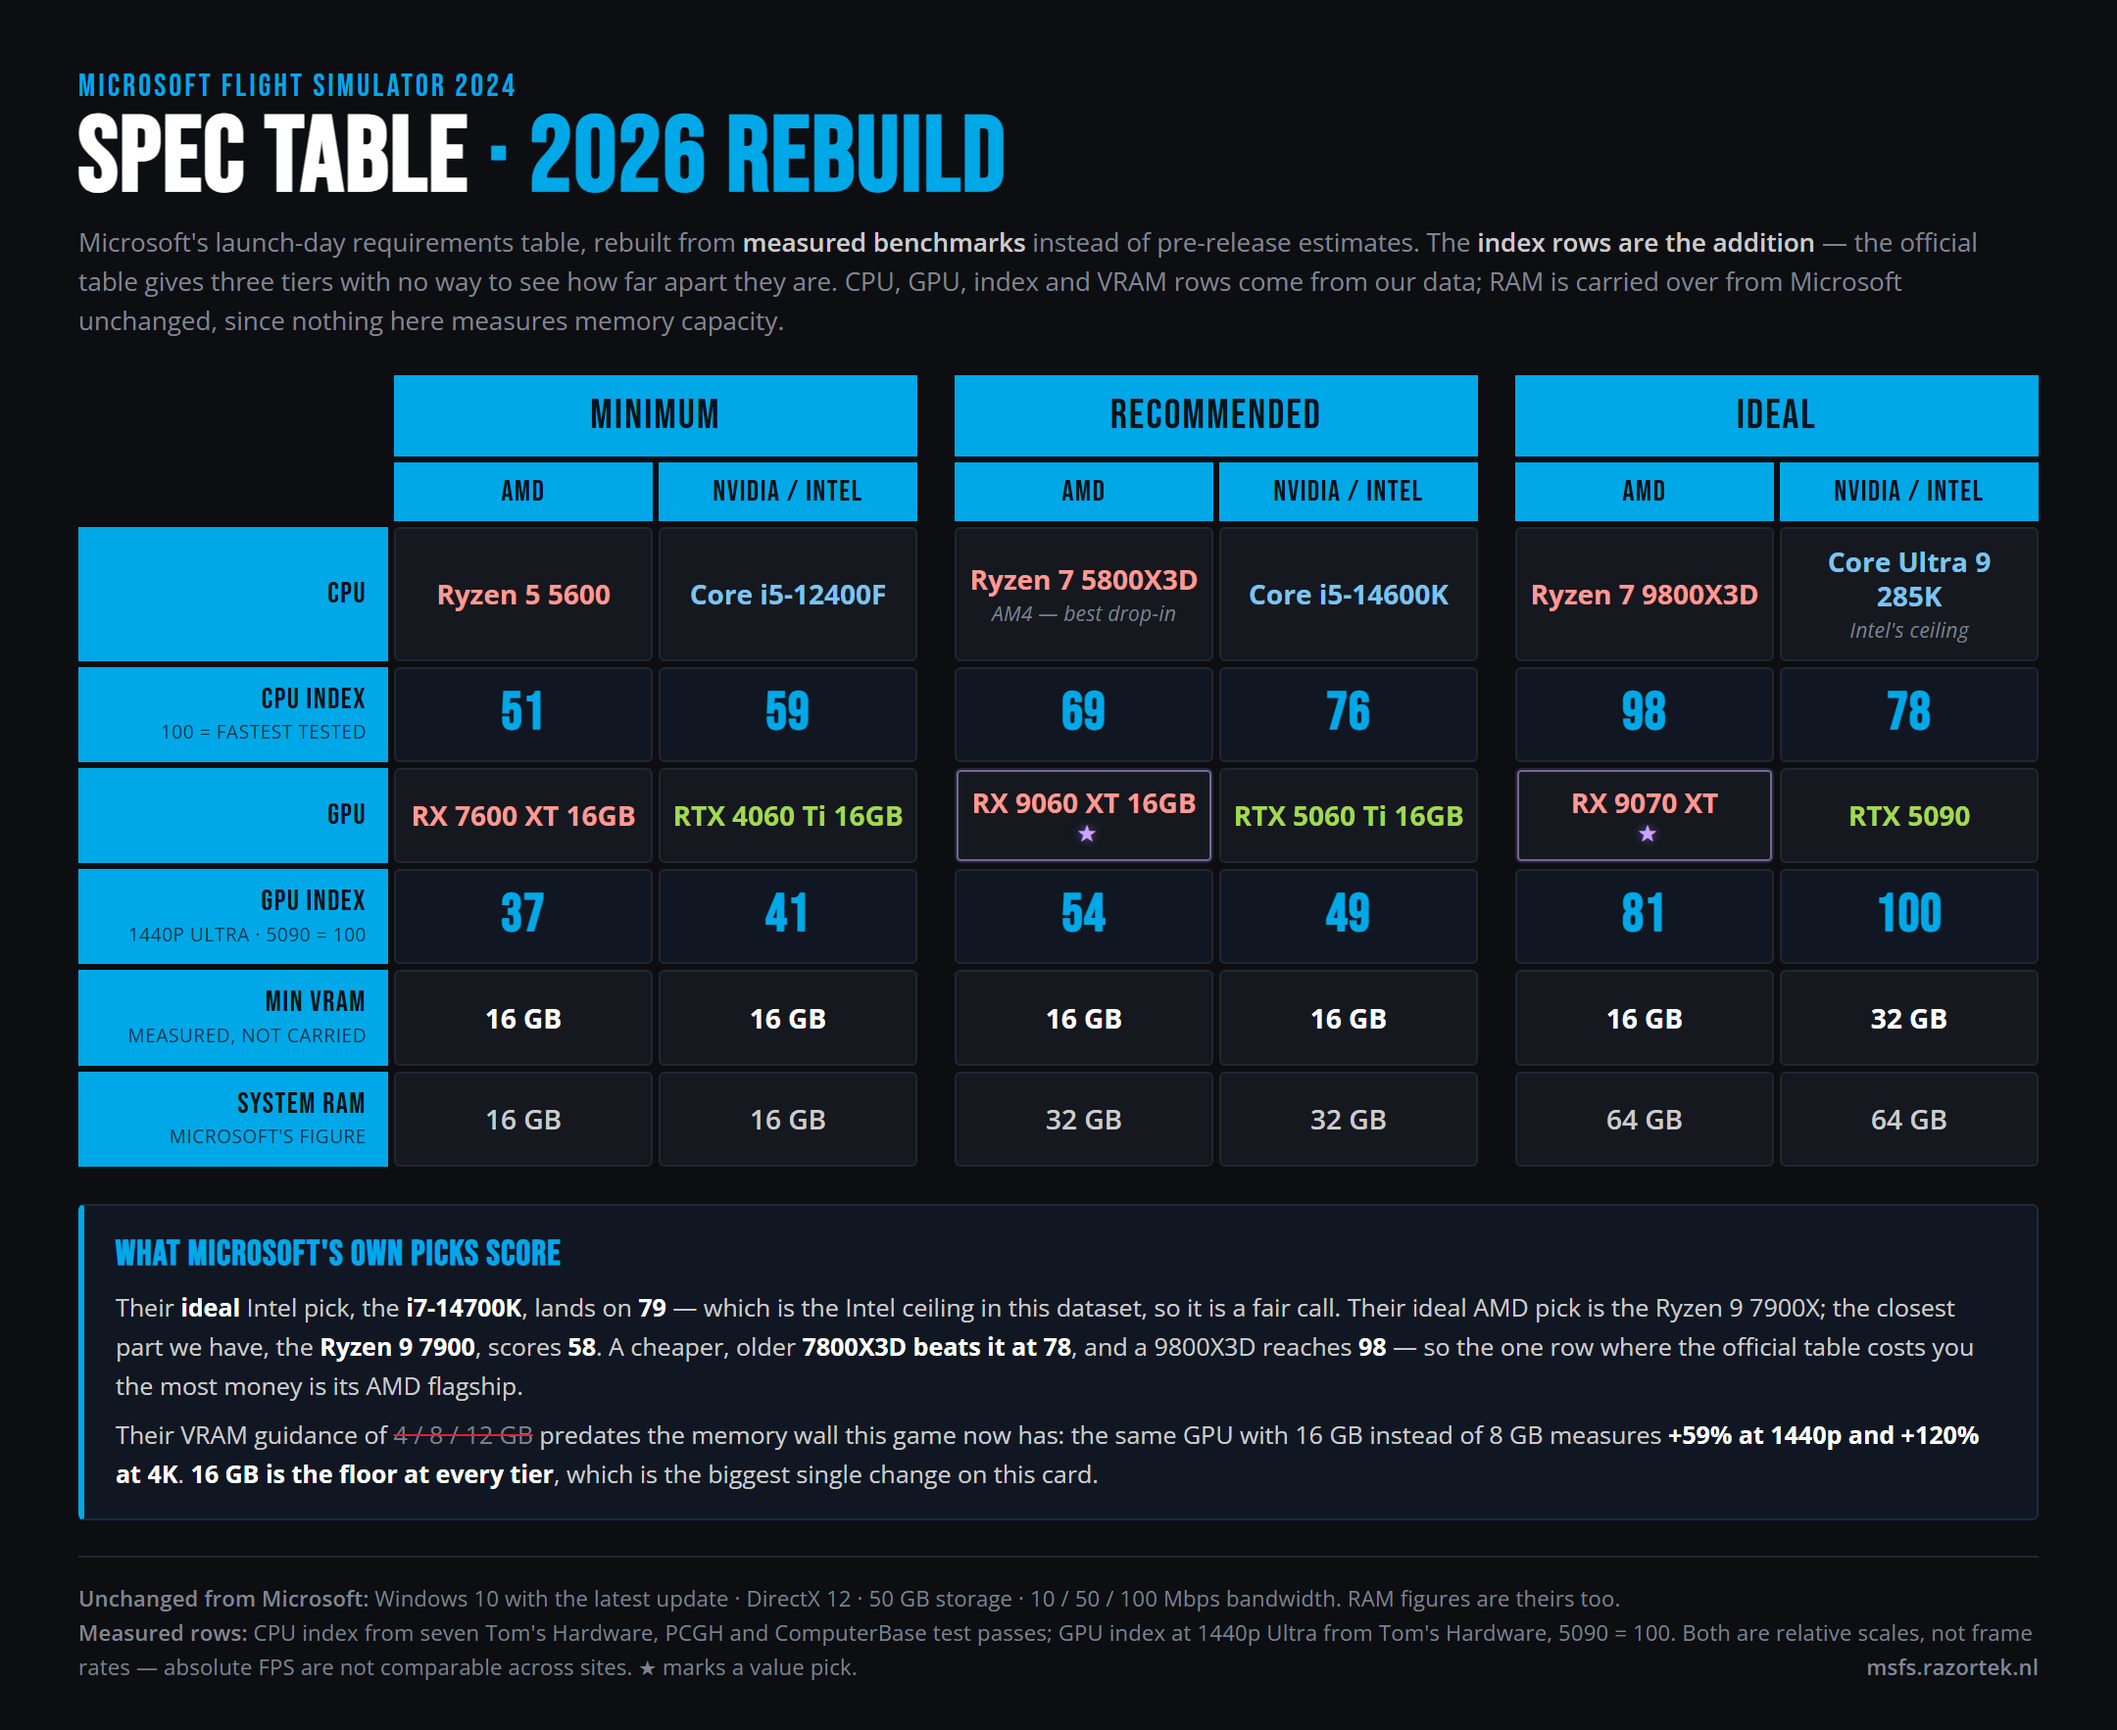
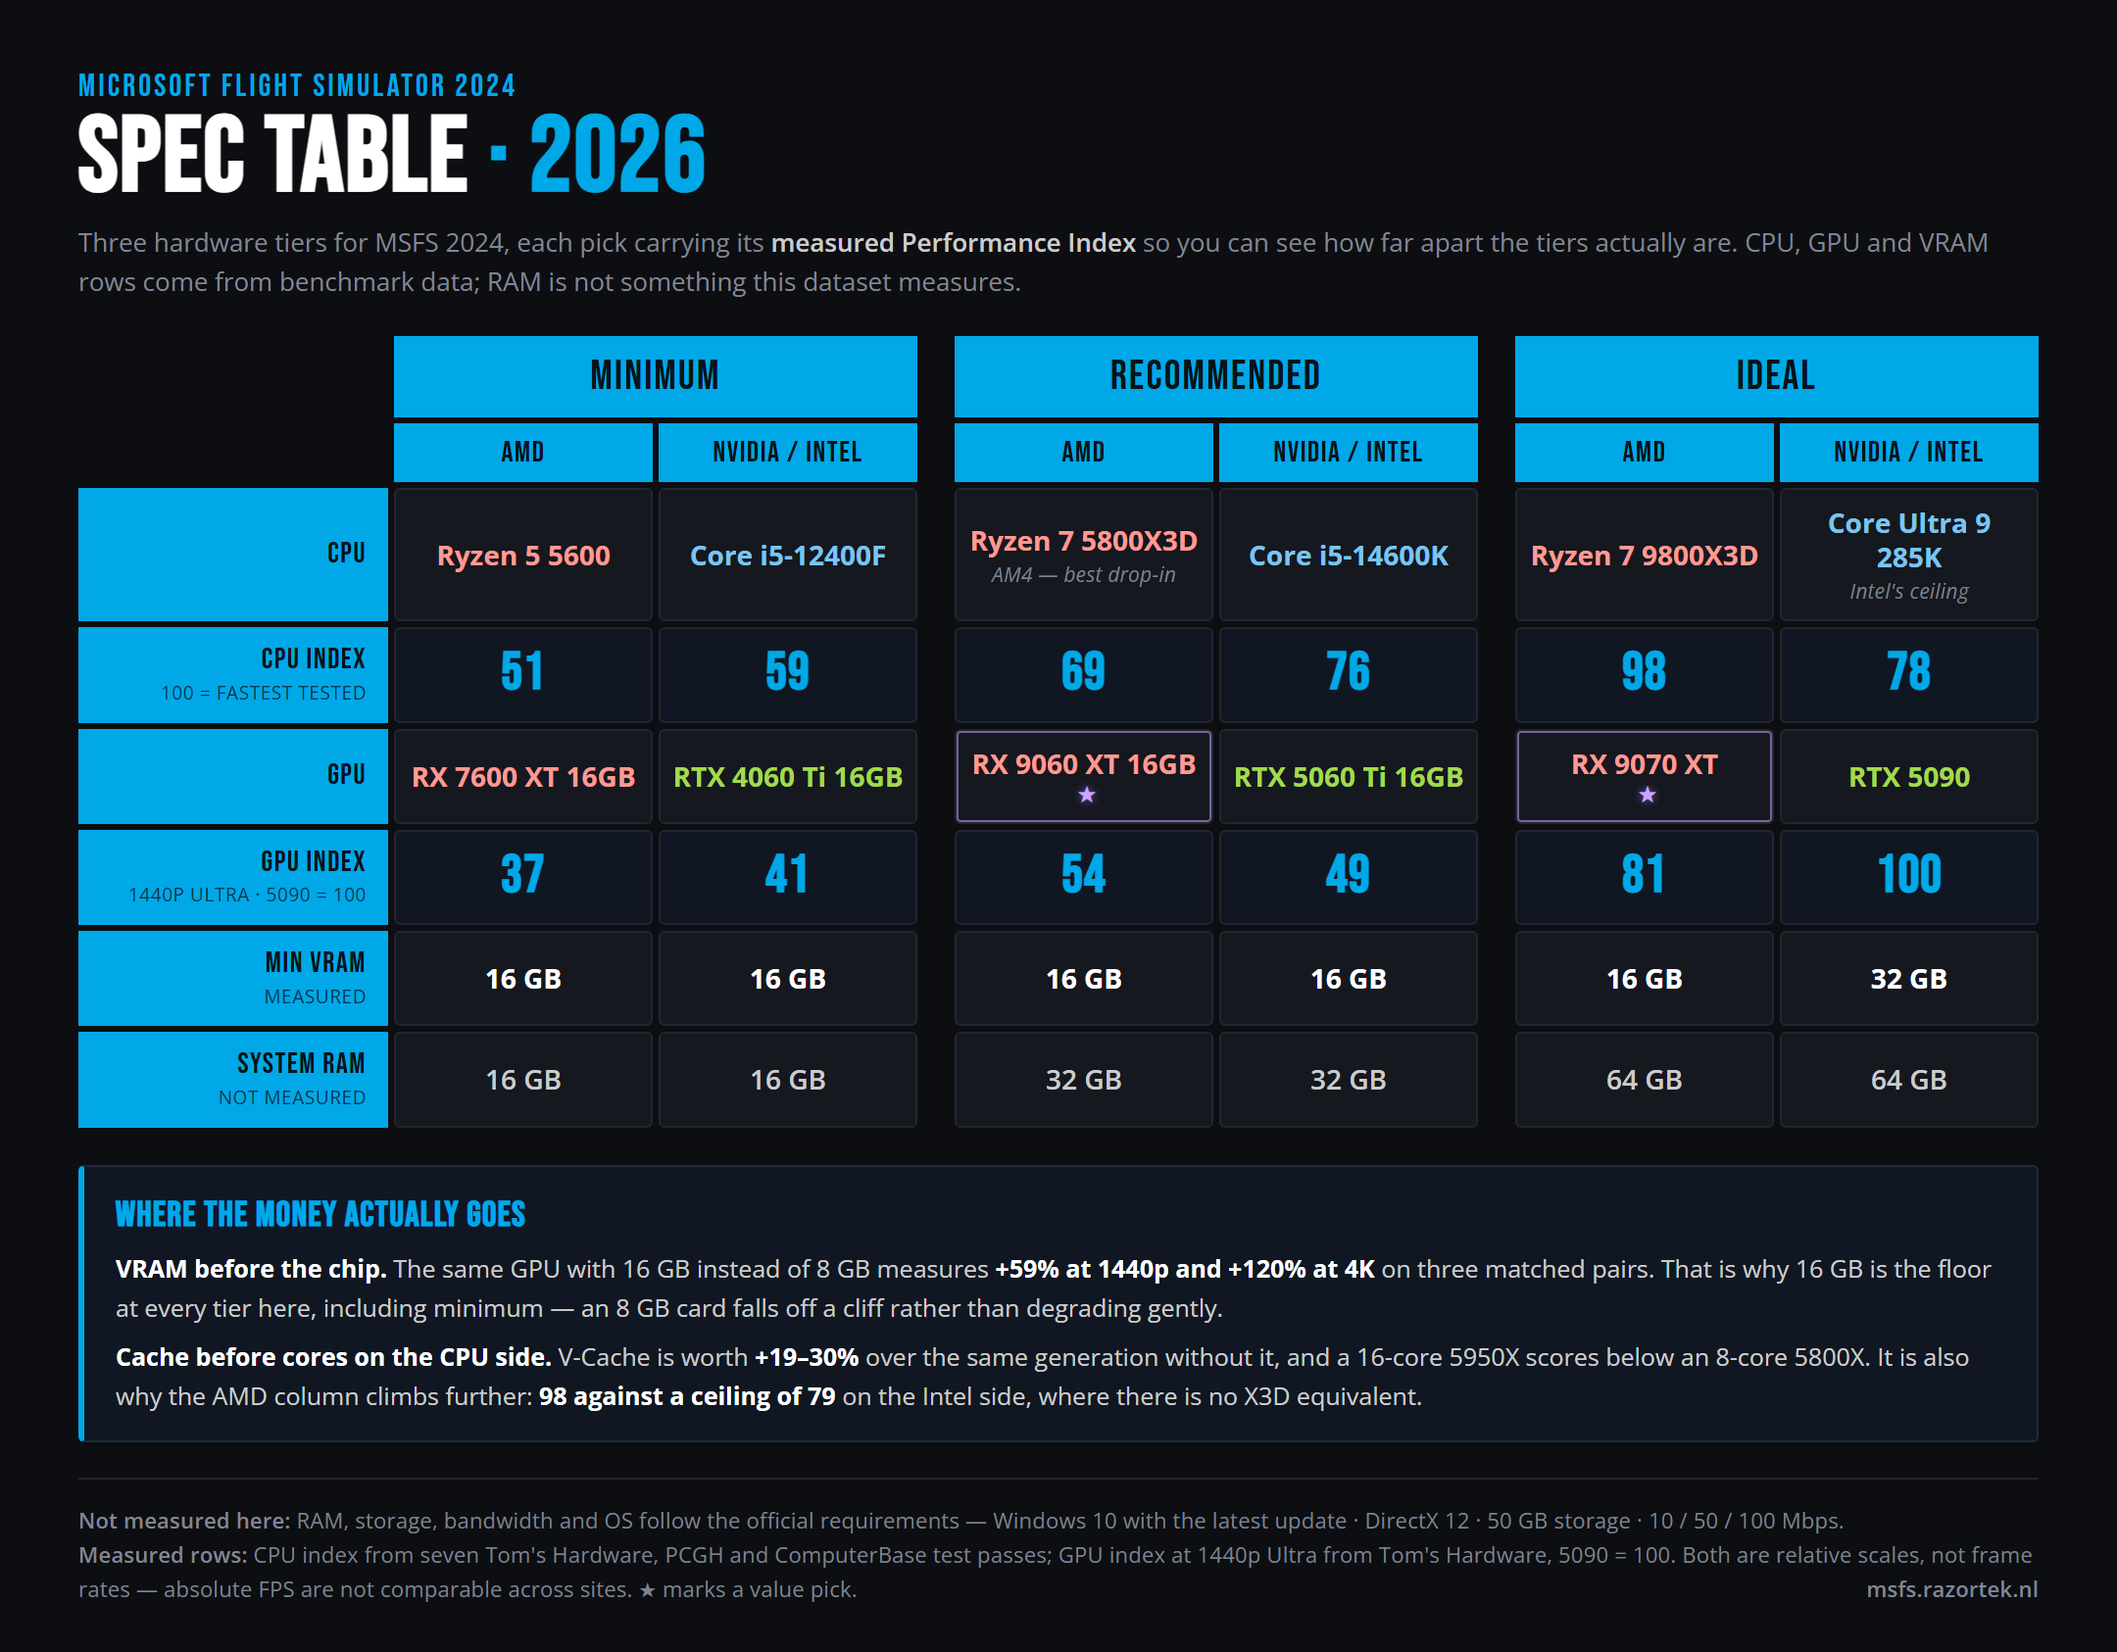
Let the spec table stand on its own
Drops the "rebuild" framing and the comparison with the launch-day table:
title is now just "Spec Table · 2026", and the lede describes what the
card is rather than what it replaces.

Replaces the callout that scored the official picks with the two findings
that actually help someone spending money -- VRAM before the chip, cache
before cores -- stated positively instead of as corrections.

Provenance stays, because it is accuracy rather than argument, but it is
now one neutral line: RAM/storage/bandwidth/OS follow the official
requirements, everything else is measured. Row labels lost "not carried"
and "Microsoft's figure" in favour of "measured" and "not measured".

Card is 40px shorter as a result.

diff --git a/tierlist_card_spec.html b/tierlist_card_spec.html
@@ -5,14 +5,15 @@
 <link rel="preconnect" href="https://fonts.gstatic.com" crossorigin>
 <link href="https://fonts.googleapis.com/css2?family=Bebas+Neue&family=Open+Sans:ital,wght@0,300..800;1,300..800&display=swap" rel="stylesheet">
 <!--
-  A rebuild of Microsoft's official MSFS 2024 system-requirements table using the
-  measured index. Render with: python make_tierlist_cards.py spec
+  A tiered spec table for MSFS 2024, driven by the measured index.
+  Render with: python make_tierlist_cards.py spec
 
-  Borrowed from the official table: filled header cells, a filled left label column,
-  condensed uppercase headers, and a gap between tier blocks so each AMD / NVIDIA
-  pair reads as one unit.
+  The layout follows the game's official requirements table so it reads as familiar:
+  filled header cells, a filled left label column, condensed uppercase headers, and a
+  gap between tier blocks so each AMD / NVIDIA pair reads as one unit. The card itself
+  makes no reference to that table — it stands on its own.
 
-  Deliberately NOT borrowed:
+  Deliberately NOT copied from it:
    - their photo background. Cells are semi-transparent over a photo, so per-cell
      contrast varies and text bleeds through in places. A solid surface is legible.
    - white-on-cyan headers, which measure 2.70:1 on their #00a8e8 — below AA even
@@ -106,33 +107,31 @@ h1 em{font-style:normal;color:var(--acc)}
 
 <div class="card">
   <div class="kicker">Microsoft Flight Simulator 2024</div>
-  <h1>Spec Table <em>· 2026 Rebuild</em></h1>
+  <h1>Spec Table <em>· 2026</em></h1>
   <div class="lede">
-    Microsoft's launch-day requirements table, rebuilt from <b>measured benchmarks</b>
-    instead of pre-release estimates. The <b>index rows are the addition</b> — the
-    official table gives three tiers with no way to see how far apart they are.
-    CPU, GPU, index and VRAM rows come from our data; RAM is carried over from
-    Microsoft unchanged, since nothing here measures memory capacity.
+    Three hardware tiers for MSFS 2024, each pick carrying its <b>measured Performance
+    Index</b> so you can see how far apart the tiers actually are. CPU, GPU and VRAM
+    rows come from benchmark data; RAM is not something this dataset measures.
   </div>
 
   <div id="grid" class="grid"></div>
 
   <div class="call">
-    <h3>What Microsoft's own picks score</h3>
-    <p>Their <b>ideal</b> Intel pick, the <b>i7-14700K</b>, lands on <b>79</b> — which is
-    the Intel ceiling in this dataset, so it is a fair call. Their ideal AMD pick is the
-    Ryzen 9 7900X; the closest part we have, the <b>Ryzen 9 7900</b>, scores <b>58</b>.
-    A cheaper, older <b>7800X3D beats it at 78</b>, and a 9800X3D reaches <b>98</b> —
-    so the one row where the official table costs you the most money is its AMD flagship.</p>
-    <p>Their VRAM guidance of <s>4 / 8 / 12 GB</s> predates the memory wall this game
-    now has: the same GPU with 16 GB instead of 8 GB measures <b>+59% at 1440p and
-    +120% at 4K</b>. <b>16 GB is the floor at every tier</b>, which is the biggest single
-    change on this card.</p>
+    <h3>Where the money actually goes</h3>
+    <p><b>VRAM before the chip.</b> The same GPU with 16 GB instead of 8 GB measures
+    <b>+59% at 1440p and +120% at 4K</b> on three matched pairs. That is why 16 GB is
+    the floor at every tier here, including minimum — an 8 GB card falls off a cliff
+    rather than degrading gently.</p>
+    <p><b>Cache before cores on the CPU side.</b> V-Cache is worth <b>+19–30%</b> over
+    the same generation without it, and a 16-core 5950X scores below an 8-core 5800X.
+    It is also why the AMD column climbs further: <b>98 against a ceiling of 79</b> on
+    the Intel side, where there is no X3D equivalent.</p>
   </div>
 
   <div class="foot">
-    <b>Unchanged from Microsoft:</b> Windows 10 with the latest update · DirectX 12 ·
-    50 GB storage · 10 / 50 / 100 Mbps bandwidth. RAM figures are theirs too.<br/>
+    <b>Not measured here:</b> RAM, storage, bandwidth and OS follow the official
+    requirements — Windows 10 with the latest update · DirectX 12 · 50 GB storage ·
+    10 / 50 / 100 Mbps.<br/>
     <b>Measured rows:</b> CPU index from seven Tom's Hardware, PCGH and ComputerBase
     test passes; GPU index at 1440p Ultra from Tom's Hardware, 5090 = 100. Both are
     relative scales, not frame rates — absolute FPS are not comparable across sites.
@@ -160,9 +159,9 @@ const ROWS = [
   ]},
   { label:"GPU index", sub:"1440p ultra · 5090 = 100", idx:1,
     cells:[[37],[41],[54],[49],[81],[100]] },
-  { label:"Min VRAM", sub:"measured, not carried",
+  { label:"Min VRAM", sub:"measured",
     cells:[["16 GB"],["16 GB"],["16 GB"],["16 GB"],["16 GB"],["32 GB"]] },
-  { label:"System RAM", sub:"Microsoft's figure", carried:1,
+  { label:"System RAM", sub:"not measured", carried:1,
     cells:[["16 GB"],["16 GB"],["32 GB"],["32 GB"],["64 GB"],["64 GB"]] },
 ];
 const TIERS = ["Minimum", "Recommended", "Ideal"];
